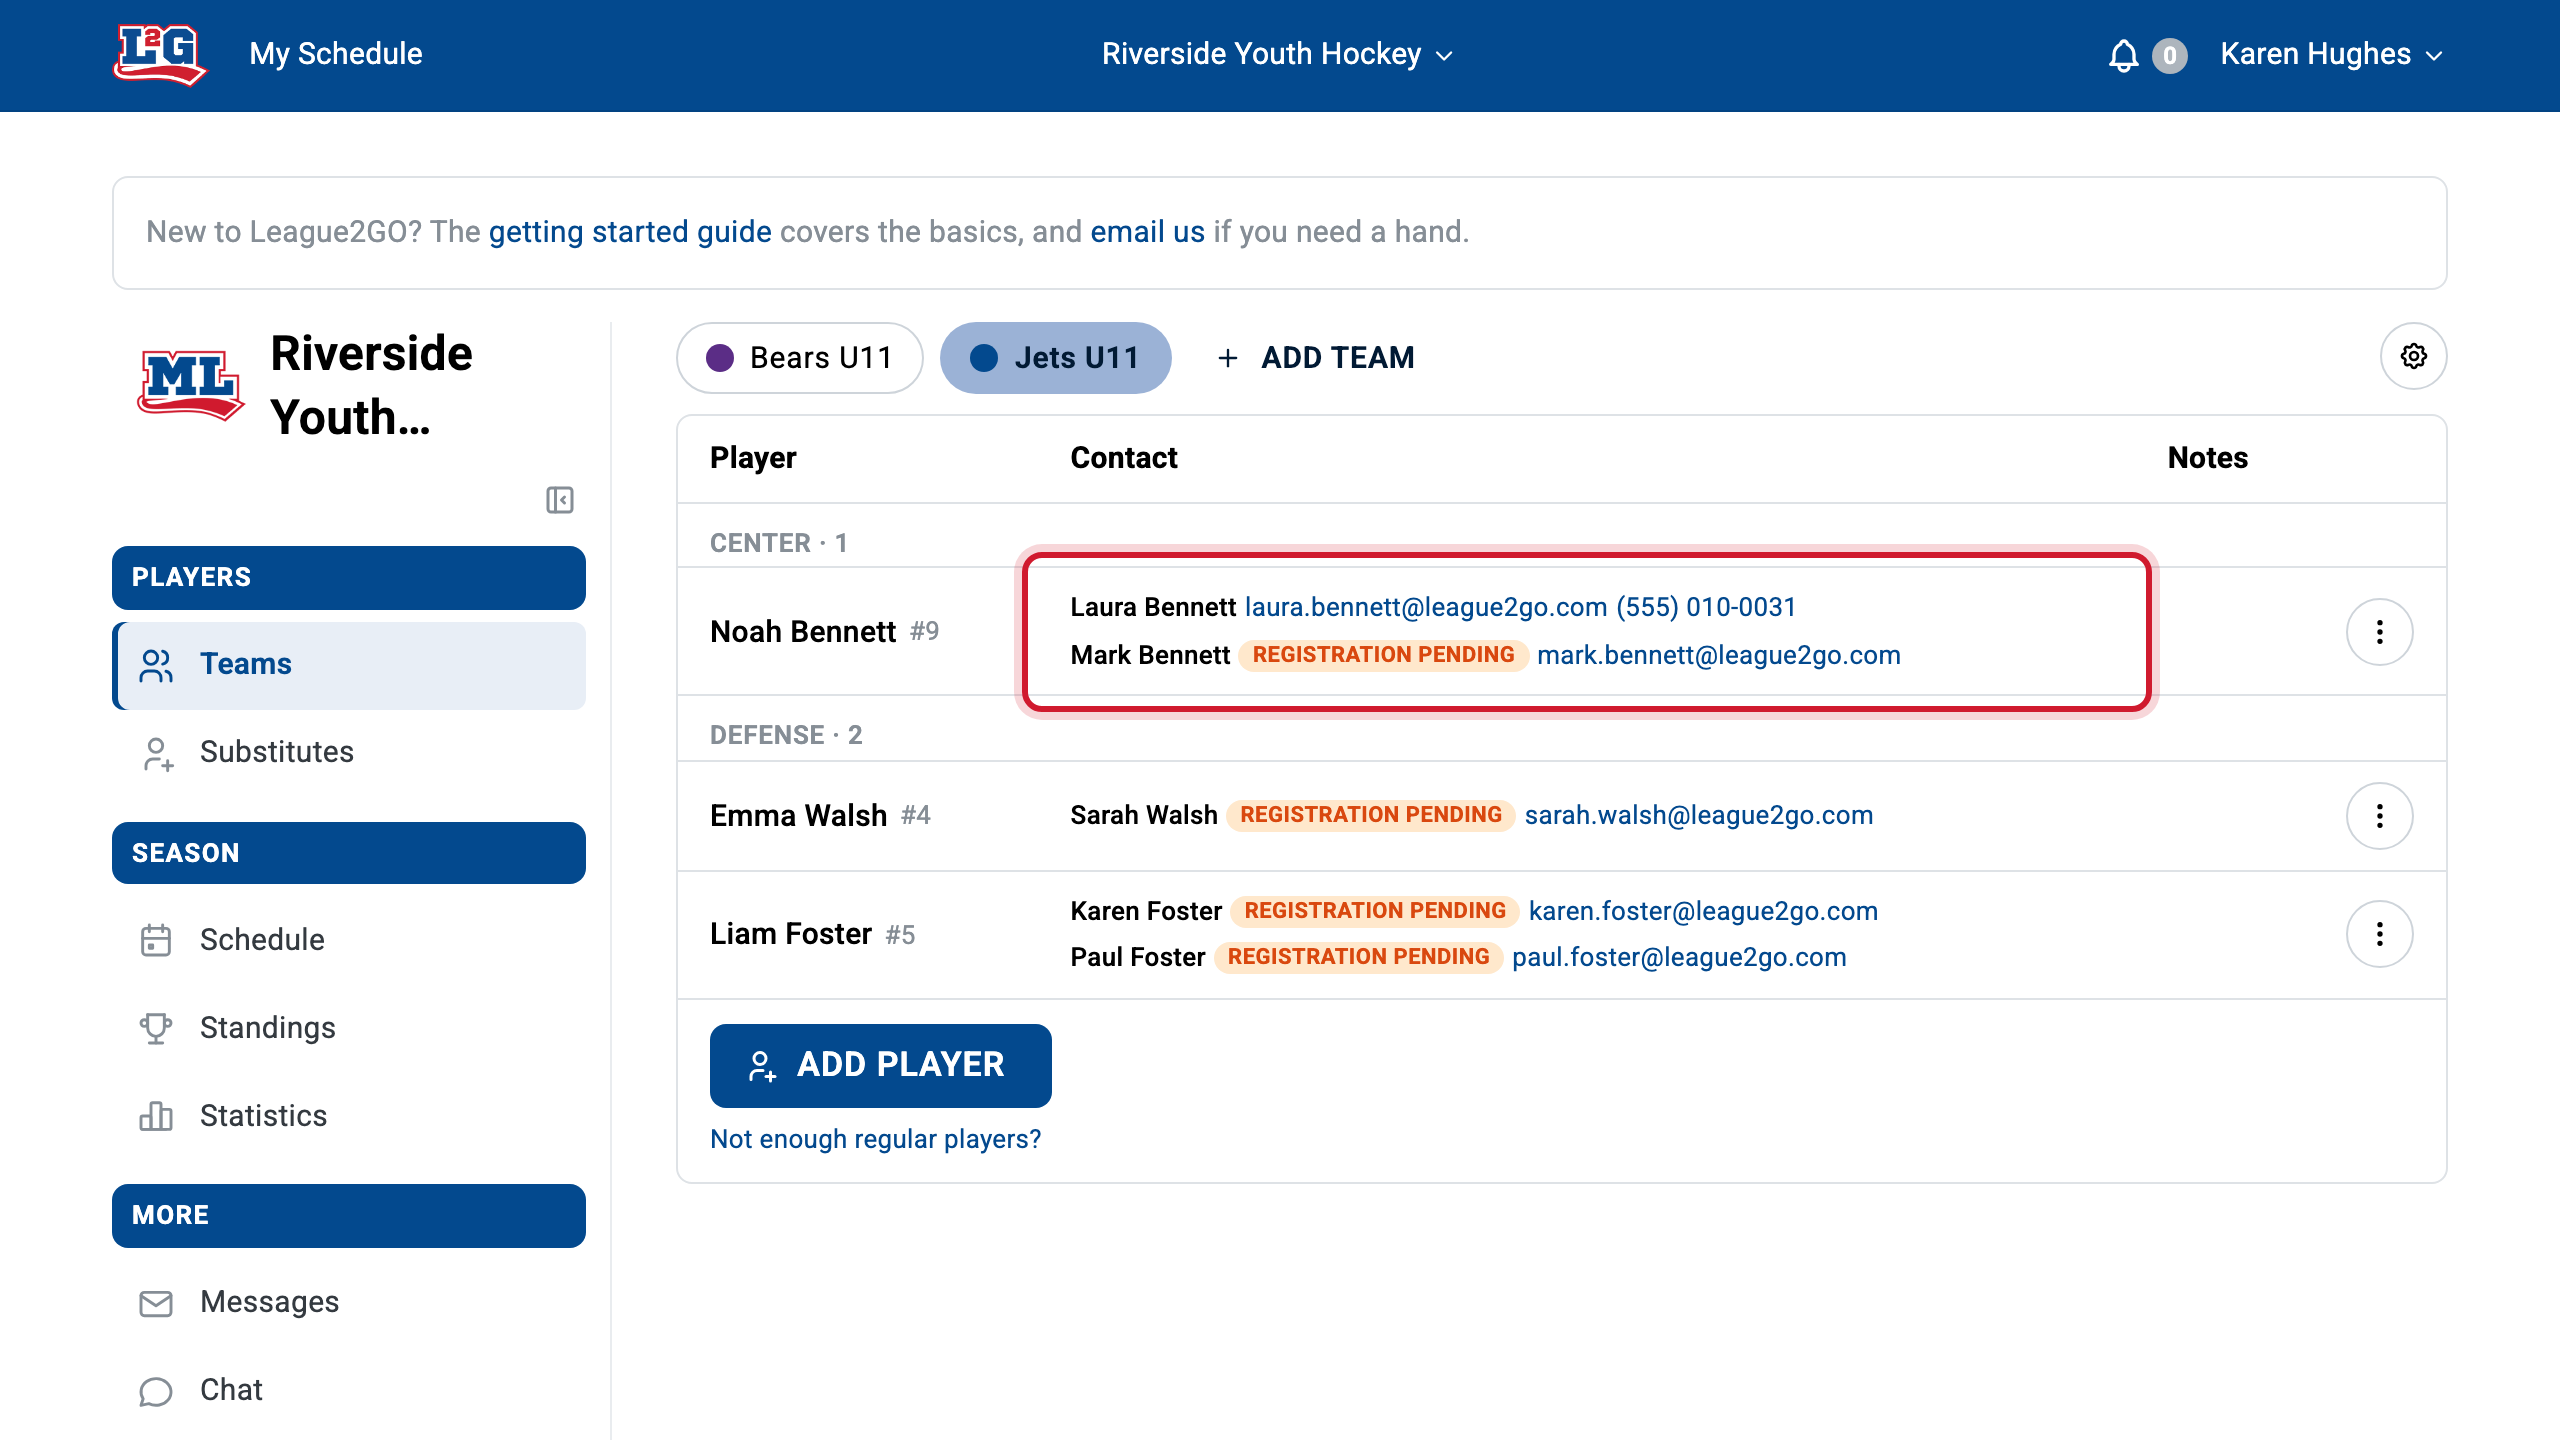
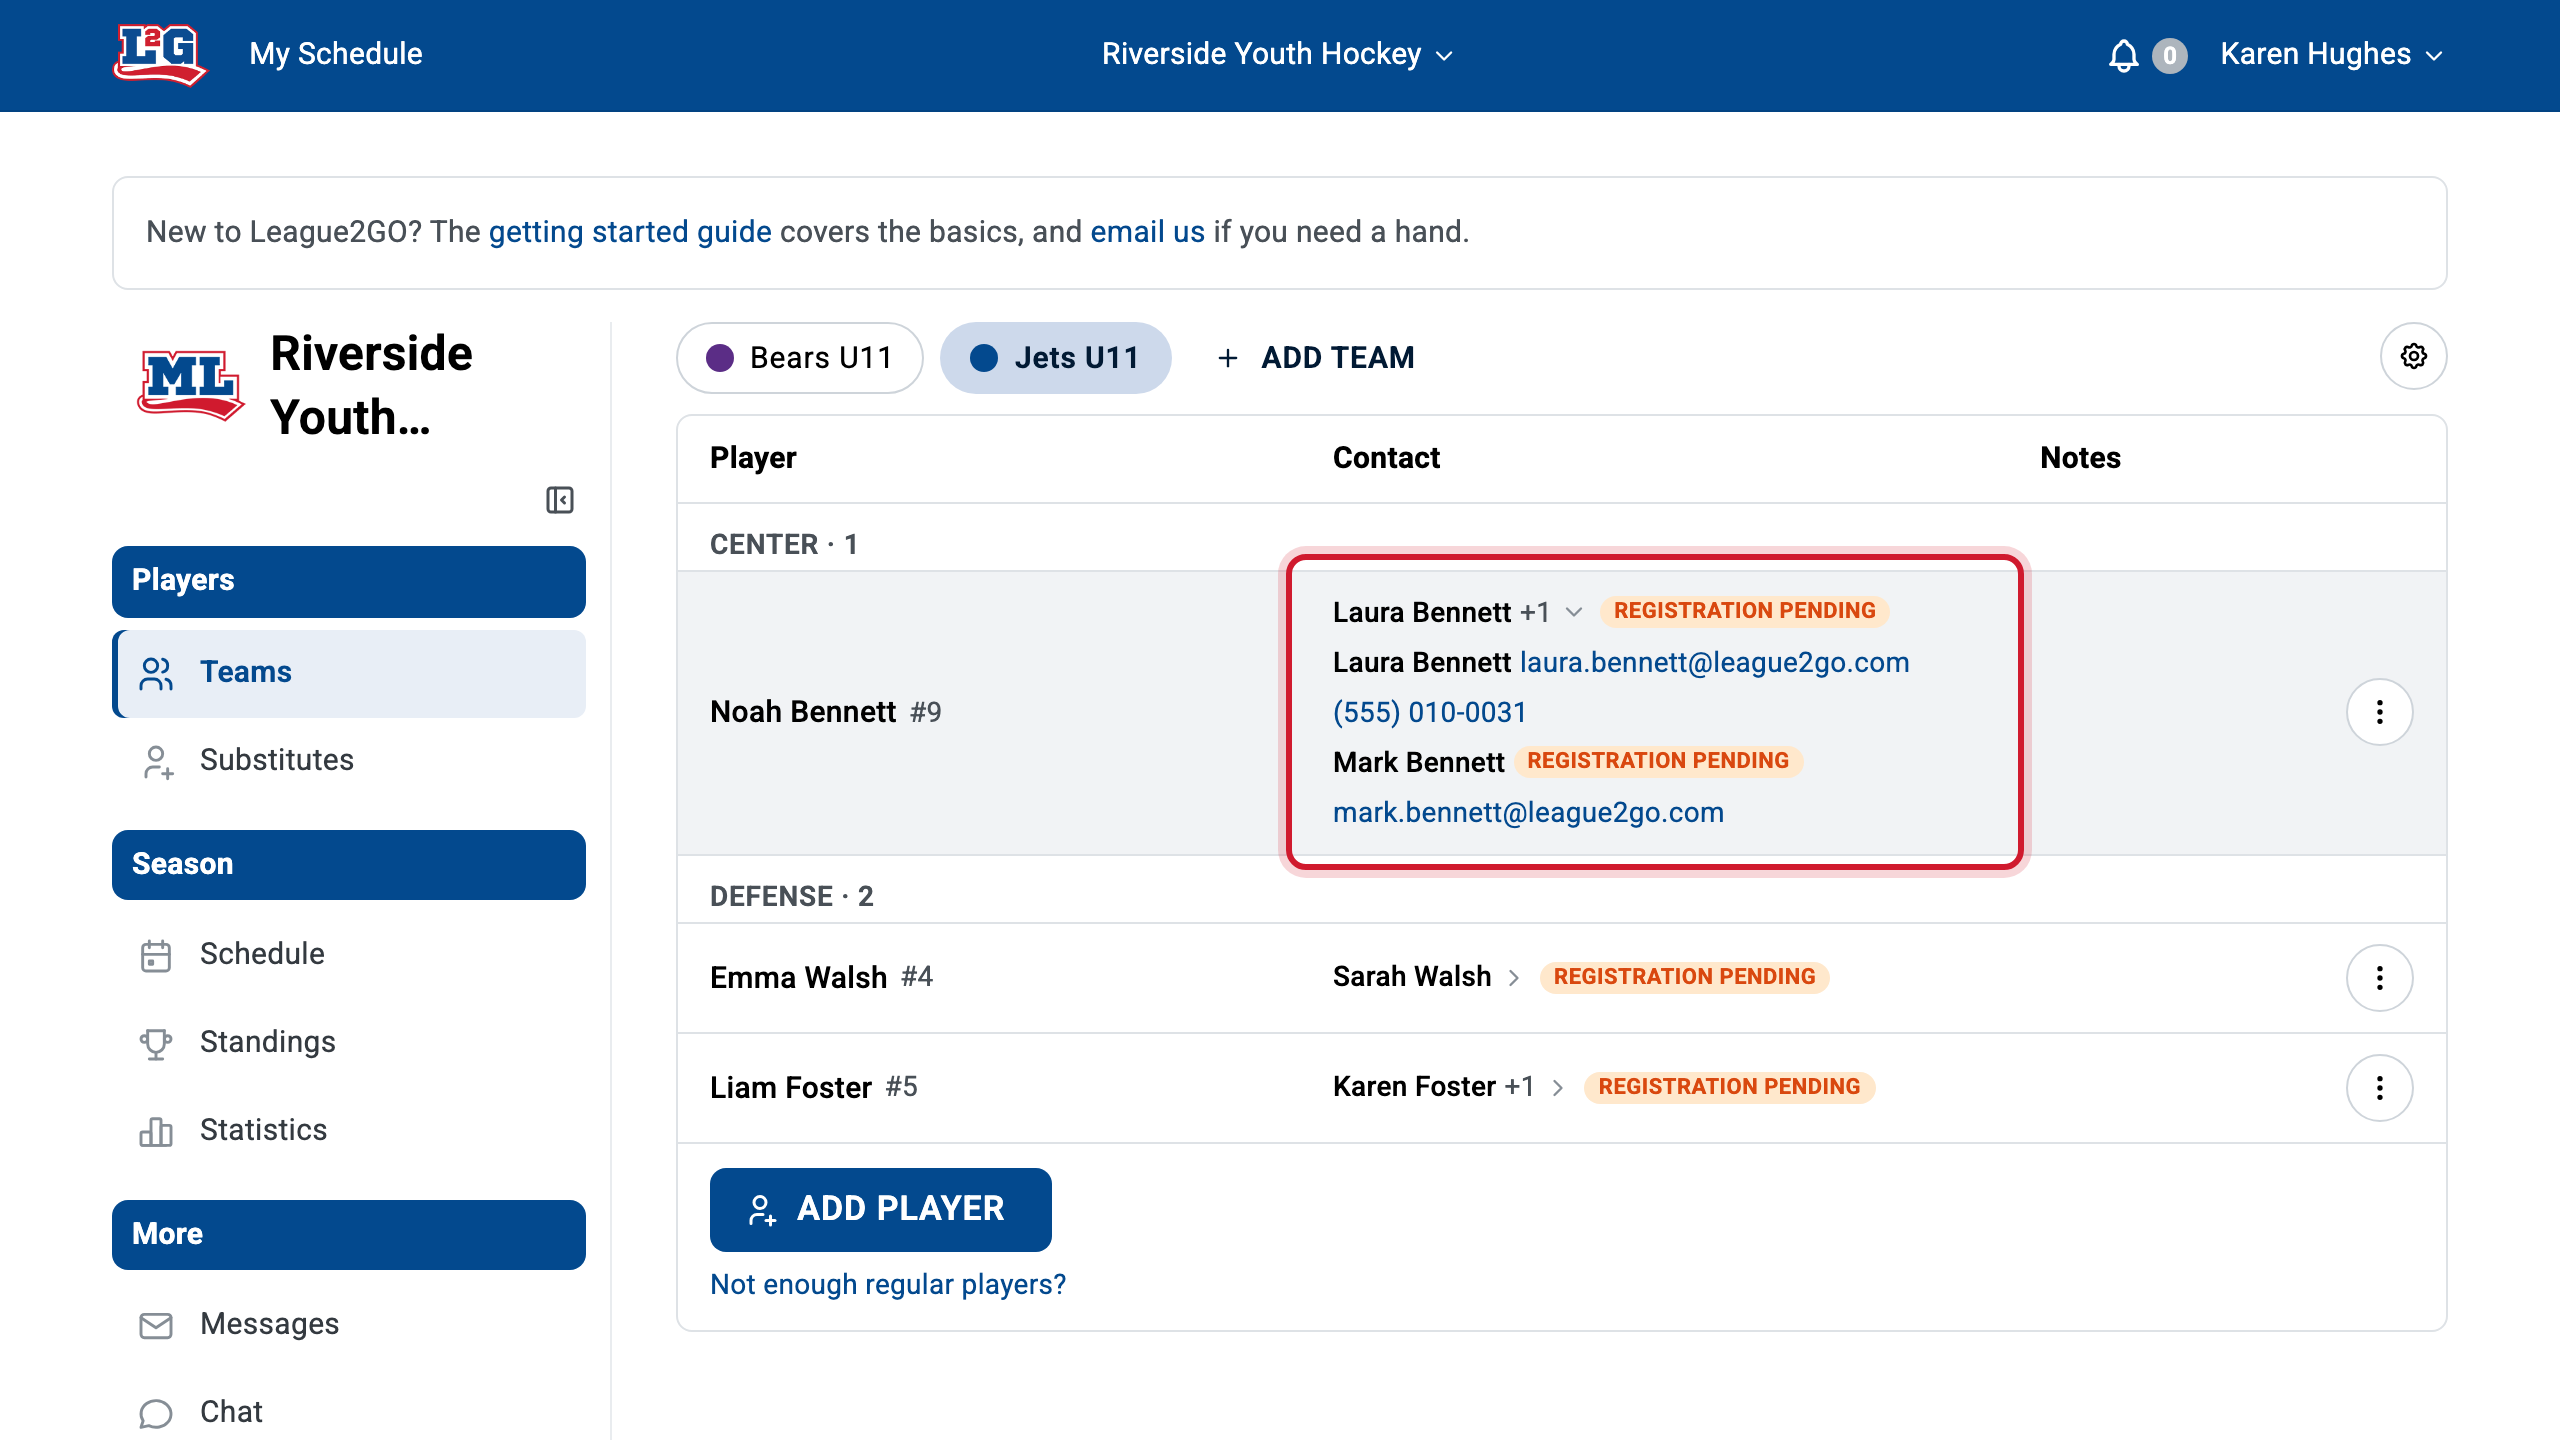
Say that a youth league's roster shows one contact line per child that unfolds to every parent, and recapture its figures
Claude-Session: https://claude.ai/code/session_01L11YxnCwSRKNcCWoW1qXfw

diff --git a/_help/fr/ligues-mineures.md b/_help/fr/ligues-mineures.md
@@ -30,9 +30,9 @@ Ajoutez un parent avec son prénom, son nom, et une adresse courriel ou un numé
 
 Chaque parent est invité à s'inscrire avec exactement l'adresse courriel ou le numéro de cellulaire que vous avez entré, exactement comme un joueur le serait dans une ligue adulte. L'**enfant n'est jamais invité et ne s'inscrit jamais** : il n'a pas de compte.
 
-Dans l'alignement, la colonne Contact affiche le nom, le courriel et le numéro de téléphone de chaque parent, et marque les parents qui n'ont pas terminé leur inscription.
+Dans l'alignement, la colonne Contact affiche une ligne par enfant: le premier parent, +N pour les autres, et Inscription en attente si un parent ne s'est pas encore inscrit. Cliquez sur cette ligne pour déplier le courriel et le numéro de téléphone de chaque parent.
 
-{% include image.html src="help/youth-roster-parents.fr.png" caption="L'alignement d'une ligue mineure : la colonne Contact liste les parents de chaque enfant, avec Inscription en attente à côté d'un parent qui ne s'est pas encore inscrit." %}
+{% include image.html src="help/youth-roster-parents.fr.png" caption="L'alignement d'une ligue mineure: la colonne Contact affiche une ligne par enfant, avec le premier parent, +1 pour l'autre et Inscription en attente. Cliquer sur une ligne déplie le courriel et le numéro de téléphone de chaque parent, comme pour le premier enfant ici." %}
 
 ## Ce que les parents reçoivent
 

diff --git a/_help/en/youth-leagues.md b/_help/en/youth-leagues.md
@@ -30,9 +30,9 @@ Add a parent with their first name, last name, and an email address or a cell nu
 
 Each parent is invited to register with the exact email address or cell number you entered, exactly as a player would be in an adult league. The **child is never invited and never registers**: they have no account.
 
-On the roster, the contact column shows each parent's name, email address and phone number, and marks any parent who has not finished registering yet.
+On the roster, the Contact column shows one line per child: the first parent, +N for the others, and Registration pending when a parent has not signed up yet. Click that line to unfold every parent's email address and phone number.
 
-{% include image.html src="help/youth-roster-parents.en.png" caption="The roster of a youth league: the Contact column lists each child's parents, with Registration pending beside a parent who has not signed up yet." %}
+{% include image.html src="help/youth-roster-parents.en.png" caption="The roster of a youth league: the Contact column shows one line per child, with the first parent, +1 for the other and Registration pending. Clicking a line unfolds every parent's email address and phone number, as for the first child here." %}
 
 ## What parents receive
 
